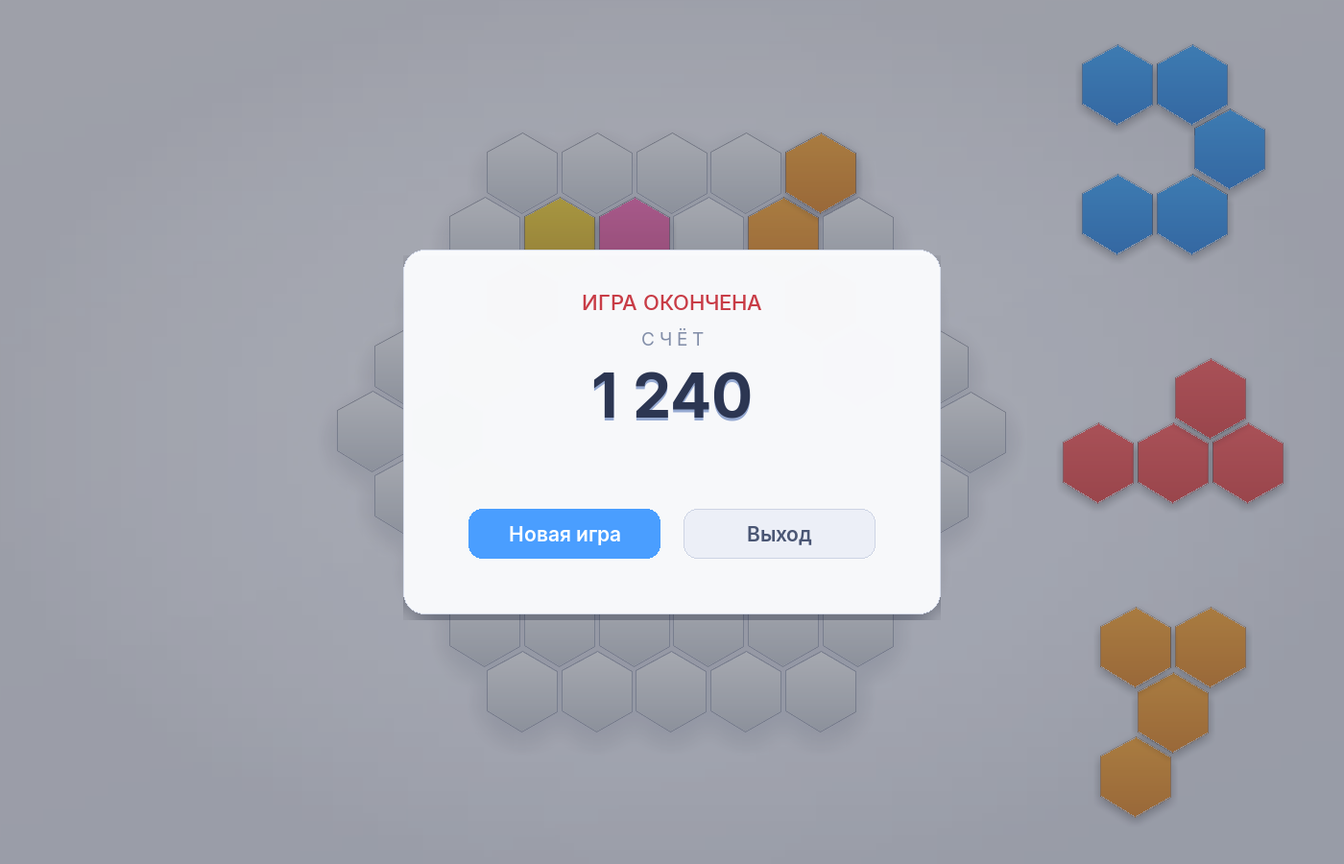
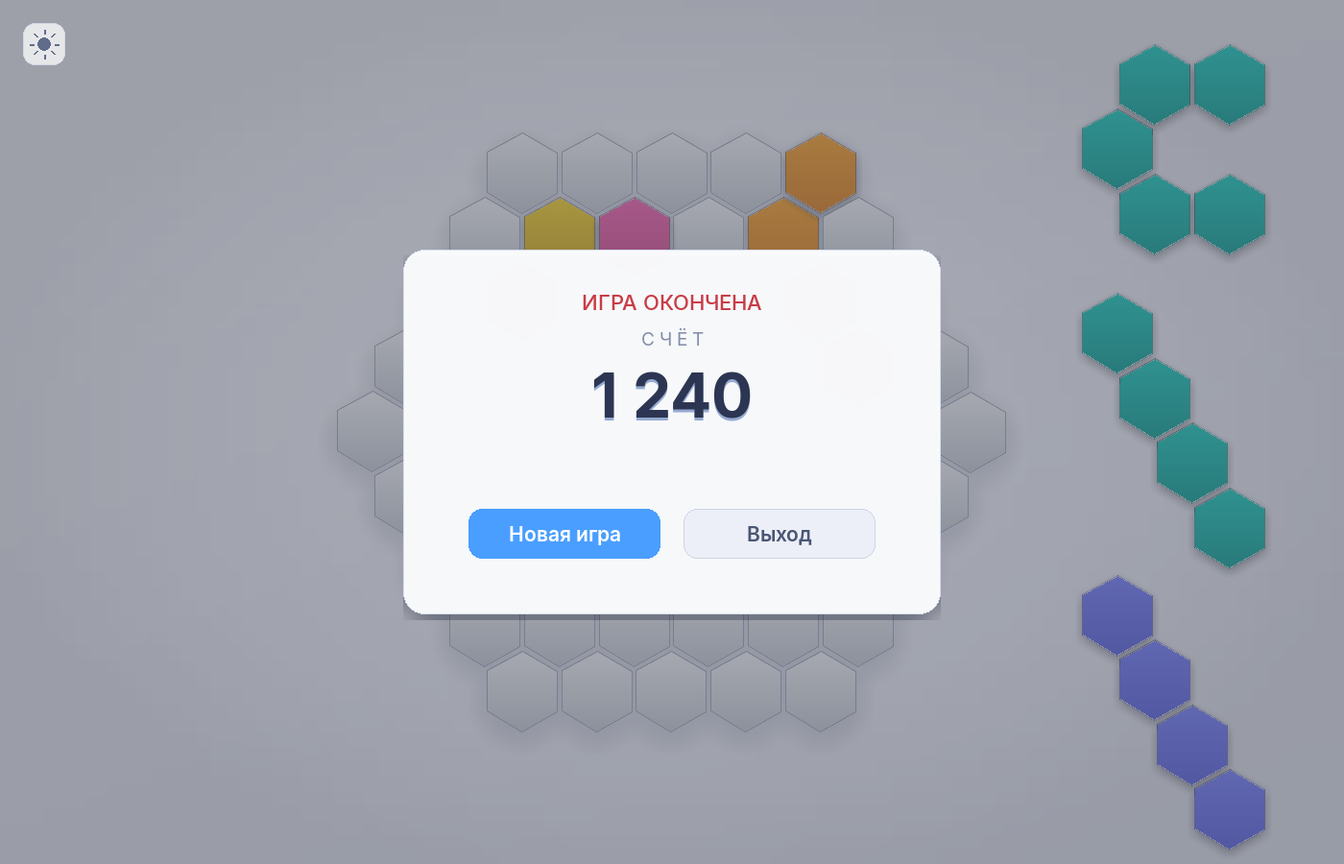
Кнопка переключения темы и пересборка README от исходной версии
Тему можно было сменить только клавишами T и F1, и в интерфейсе об этом
ничего не говорило — пользователь не мог догадаться.

Кнопка темы:
- новый слой ThemeButton: квадрат 44x44 в левом верхнем углу (24, 24);
- иконка рисуется примитивами: солнце в светлой теме, луна в тёмной;
- подсветка при наведении, цвета в обеих темах;
- клик по кнопке перехватывается раньше остальной обработки мыши, поэтому
  не может начать перетаскивание фигуры;
- работает и в игре, и на экране проигрыша (лежит выше затемнения);
- клавиши T и F1 сохранены как альтернатива.

README пересобран от исходной версии (коммит до правок): текст автора
сохранён, списки файлов и классов актуализированы, добавлены раздел
"Доработки с помощью ИИ" с описанием графики, тем, производительности,
исправленных ошибок и перехода на pygame-ce.

Скриншоты: три прежних перегенерированы с кнопкой, добавлен screen4.png
с тёмной темой и before-screen*.jpg из истории для сравнения "до/после".

Проверки: 117 кадров анимаций (включая наведение кнопки) сверены с полной
перерисовкой — следов нет; 146 фигур в 12 партиях с фиксированным seed;
клики по кнопке меняют тему в обе стороны и не мешают перетаскиванию;
все ссылки на картинки и упомянутые файлы/классы существуют.

diff --git a/classes.py b/classes.py
@@ -1213,3 +1213,67 @@ class Tab(Layer):
         caption = 'Новая игра' if action == 'new_game' else 'Выход'
         text = self._text(caption, self.button_font, text_color)
         self.surface.blit(text, text.get_rect(center=rect.center))
+
+
+class ThemeButton(Layer):
+    """Кнопка переключения светлой и тёмной темы в левом верхнем углу.
+
+    Раньше тему можно было сменить только клавишами T и F1, и в интерфейсе
+    об этом ничего не говорило. Кнопка делает возможность видимой.
+    """
+
+    SIZE = 44
+    MARGIN = 24
+
+    def __init__(self, sc):
+        Layer.__init__(self, sc)
+        self.rect = pg.Rect(self.MARGIN, self.MARGIN, self.SIZE, self.SIZE)
+        self.hovered = False
+        self.invalidate(self.bounds)
+
+    @property
+    def bounds(self):
+        # Запас под тень и подсветку, чтобы они не обрезались клипом слоя.
+        return self.rect.inflate(24, 24)
+
+    def hit(self, pos):
+        return self.rect.collidepoint(pos)
+
+    def set_hover(self, pos):
+        hovered = self.hit(pos)
+        if hovered != self.hovered:
+            self.hovered = hovered
+            self.invalidate(self.bounds)
+
+    def redraw(self, rect):
+        self.surface.fill((0, 0, 0, 0), rect)
+        if not rect.colliderect(self.bounds):
+            return
+
+        body = self.rect
+        fill = theme['theme_button_hover'] if self.hovered else theme['theme_button_fill']
+        pg.draw.rect(self.surface, fill, body, border_radius=12)
+        pg.draw.rect(self.surface, theme['theme_button_border'], body, width=1, border_radius=12)
+
+        color = theme['theme_button_icon']
+        cx, cy = body.center
+
+        if theme.name == 'light':
+            # Солнце: круг и восемь лучей.
+            pg.draw.circle(self.surface, color, (cx, cy), 7)
+            for index in range(8):
+                angle = pi / 4 * index
+                inner = 11
+                outer = 15
+                pg.draw.line(
+                    self.surface, color,
+                    (cx + inner * cos(angle), cy - inner * sin(angle)),
+                    (cx + outer * cos(angle), cy - outer * sin(angle)),
+                    2)
+        else:
+            # Луна: круг, из которого вырезан смещённый круг.
+            radius = 9
+            mask = pg.Surface((radius * 2 + 2, radius * 2 + 2), pg.SRCALPHA)
+            pg.draw.circle(mask, (*color, 255), (radius + 1, radius + 1), radius)
+            pg.draw.circle(mask, (0, 0, 0, 0), (radius + 6, radius - 2), radius)
+            self.surface.blit(mask, (cx - radius - 1, cy - radius - 1))

diff --git a/main.py b/main.py
@@ -5,7 +5,7 @@
 """
 from settings import pg, W, H, WINDOW_TITLE, FPS, GAME_MODE, FINAL_MODE
 from theme import theme
-from classes import Field, Pool, DragAndDrop, Background, Tab, Renderer, FxLayer
+from classes import Field, Pool, DragAndDrop, Background, Tab, Renderer, FxLayer, ThemeButton
 
 
 def init_new_game(sc):
@@ -26,9 +26,10 @@ def run():
     background = Background(sc)
     field, pool, drag_and_drop, tab = init_new_game(sc)
     fx = FxLayer(sc)
+    theme_button = ThemeButton(sc)
     # Порядок слоёв задаёт порядок наложения: поле, пул, фигура под курсором,
-    # эффекты и счёт.
-    renderer = Renderer(sc, background, [field, pool, drag_and_drop, fx, tab])
+    # эффекты, счёт и поверх всего кнопка темы.
+    renderer = Renderer(sc, background, [field, pool, drag_and_drop, fx, tab, theme_button])
 
     def switch_theme():
         """Перекрашивает всё под выбранную тему.
@@ -40,6 +41,7 @@ def run():
         background.rebuild()
         field._shadow = None
         tab._rendered = {}
+        theme_button.invalidate(theme_button.bounds)
         renderer.invalidate_all()
 
     mode = GAME_MODE
@@ -58,6 +60,16 @@ def run():
             if event.type == pg.KEYDOWN and event.key in (pg.K_t, pg.K_F1):
                 switch_theme()
                 continue
+
+            # Кнопка темы обрабатывается раньше всего остального и перехватывает
+            # клик: иначе он мог бы начать перетаскивание фигуры.
+            if event.type == pg.MOUSEMOTION:
+                theme_button.set_hover(event.pos)
+
+            if event.type == pg.MOUSEBUTTONDOWN and event.button == pg.BUTTON_LEFT:
+                if theme_button.hit(event.pos):
+                    switch_theme()
+                    continue
 
             if mode == GAME_MODE:
                 if event.type == pg.MOUSEBUTTONDOWN and event.button == pg.BUTTON_LEFT:

diff --git a/theme.py b/theme.py
@@ -59,6 +59,12 @@ LIGHT = {
     'button_secondary_hover': (224, 229, 240),
     'button_secondary_text': (74, 86, 116),
     'button_border': (205, 212, 228),
+
+    # Кнопка переключения темы
+    'theme_button_fill': (255, 255, 255, 190),
+    'theme_button_hover': (255, 255, 255, 245),
+    'theme_button_border': (208, 215, 230),
+    'theme_button_icon': (96, 108, 138),
 }
 
 DARK = {
@@ -110,6 +116,11 @@ DARK = {
     'button_secondary_hover': (78, 88, 114),
     'button_secondary_text': (226, 233, 246),
     'button_border': (88, 98, 124),
+
+    'theme_button_fill': (54, 61, 80, 190),
+    'theme_button_hover': (68, 76, 98, 245),
+    'theme_button_border': (86, 96, 122),
+    'theme_button_icon': (214, 223, 240),
 }
 
 THEMES = {'light': LIGHT, 'dark': DARK}

diff --git a/README.md b/README.md
@@ -4,17 +4,123 @@
 Hexagon - игра, на которую я случайно наткнулся в интернете и решил повторить на Python (с использованием библиотеки pygame-ce). Правила игры немного напоминают правила Тетрис.
 На игровом поле также нужно выстраивать полные линии, выкладывая фигурки, чтобы удалить их, с той лишь разницей, что поле в Hexagon состоит не из квадратиков, а из шестиугольных ячеек - гексов - и фигурки не падают сверху, а выбираются из случайным образом пополняемого "пула"
 
-## Установка и запуск
+Код игры разбит на несколько файлов:
+1) start.pyw (точка входа: проверяет окружение, показывает ошибки при запуске без терминала и запускает игру)
+2) main.py (основной игровой цикл)
+3) classes.py (в нем находятся классы, реализующие основную логику игры)
+4) utils.py (в нем находится несколько вспомогательных функций, например, для создания списка координат отдельных гексов и сглаживания их углов)
+5) settings.py (файл с настройками игры, такими например, как размер окна, размер гексов и т.д.)
+6) theme.py (цвета светлой и тёмной темы)
+7) sprites.py (кэш готовых спрайтов гексов: тени, градиенты, сглаженные контуры)
+8) fonts.py (загрузка шрифта интерфейса)
 
-Игра использует [pygame-ce](https://pyga.me/) - активно развиваемый форк pygame с тем же API.
+Кратко о назначении отдельных классов:
+- Layer - базовый слой отрисовки. Хранит свою поверхность и помнит, какая её часть изменилась с прошлого кадра, поэтому перерисовывается только она.
+- Renderer - собирает кадр из слоёв и обновляет на экране только изменившиеся области.
+- Background - генерирует фоновый рисунок (градиент, виньетку и шум) и отрисовывает его.
+- Hexagon, FieldHexagon, FigureHexagon - классы для представления гексов, входящих в фигуры, и гексов на игровом поле. Класс Hexagon является суперклассом для двух других,           инкапсулирующим общие свойства и поведение.
+- Figure - служит для представления фигур из гексов. Хранит список входящих в фигуру гексов, позволяя обращаться к ним, как к отдельному целому объекту. Содержит много методов для   делегирования поведения. Например, мы можем передвинуть фигуру на указанное смещение не передавая его напрямую каждому отдельному входящему в фигуру гексу, а передав требуемое     смещение фигуре, соответствующий метод которой уже передаст его входящим в фигуру гексам.
+- Pool - генерирует весь комплект фигур и случайным образом отбирает фигуры из созданного комплекта для отдельных ходов.
+- Field - представляет игровое поле. Также содержит методы для удаления полных линий и определения наличия доступных ходов (если доступных ходов не осталось - игра прекращается).
+- DragAndDrop - реализует возможность перетаскивания фигур из пула на игровое поле с помощью мышки.
+- FxLayer - слой эффектов: искры при удалении линий и всплывающие очки.
+- Tab - панель для отображения количества очков и итоговый экран с кнопками.
+- ThemeButton - кнопка переключения светлой и тёмной темы.
+
+![screenshot](screenshots/screen1.png)
+
+![screenshot](screenshots/screen2.png)
+
+![screenshot](screenshots/screen3.png)
+
+![screenshot](screenshots/screen4.png)
+
+## Доработки с помощью ИИ
+
+Исходная версия игры была написана и лежала в репозитории. Ниже — что было
+доработано позже: графика, темы, скорость, а также ошибки, которые удалось найти
+и исправить по ходу.
+
+### Как было и как стало
+
+| До | После |
+|---|---|
+| ![до](screenshots/before-screen1.jpg) | ![после](screenshots/screen1.png) |
+
+Слева — исходное оформление: плоские гексы с контуром, ровный шум на фоне,
+одна цифра счёта в верхнем углу. Справа — текущий вид.
+
+### Графика и анимации
+
+Гексы перестали быть плоскими полигонами. Каждый рисуется в отдельную картинку:
+мягкая тень, вертикальный градиент, сглаженный контур. Тень под всей доской
+создаёт ощущение, что поле лежит над фоном, а не нарисовано на нём.
+
+Фон — диагональный градиент с виньеткой (края чуть темнее центра) и мелким
+шумом. Панель счёта получила заголовок и крупное число, для интерфейса взят
+шрифт Inter.
+
+Добавлены эффекты: фигуры плавно появляются в пуле, при удалении линий
+разлетаются искры, над местом хода всплывают заработанные очки.
+
+### Две темы
+
+Светлая и тёмная темы переключаются кнопкой в левом верхнем углу или клавишами
+**T** и **F1**. Фигура хранит не RGB, а индекс цвета в палитре, поэтому смена
+темы не требует перекрашивать объекты игры: подставляются цвета из `theme.py`.
+
+Готовые спрайты и фон кэшируются отдельно для каждой темы, так что повторное
+переключение не пересчитывает картинки заново.
+
+### Производительность
+
+Раньше каждый кадр заново рисовал все гексы и блитил пять полноэкранных
+поверхностей. Теперь кадр собирается из слоёв, и каждый слой перерисовывается
+только в той области, которая изменилась с прошлого кадра.
+
+| | Значение |
+|---|---|
+| Полностью статичный кадр | 0.016 мс |
+| Кадр во время перетаскивания фигуры | 1.28 мс |
+| Бюджет одного кадра при 30 FPS | 33.3 мс (занято около 2,5 %) |
+
+Отдельно стоит отметить: спрайты с тенями и градиентами оказались не медленнее
+прежних полигонов. Блит готовой картинки дешевле, чем `polygon` с
+антиалиасингом, поэтому визуальные улучшения не отняли запас скорости.
+
+### Исправленные ошибки
+
+- Одна и та же ячейка поля могла посчитаться дважды, если два гекса фигуры
+  попадали в неё — начислялись лишние очки.
+- Фигура из 4 гексов могла закрасить 5 ячеек и начислить очки за 5: гекс на
+  границе попадал сразу в две ячейки, и этого никто не проверял.
+- Проверка попадания `collide()` считала точку «внутри» гекса, если она лежала
+  на продолжении его ребра — далеко за пределами фигуры. Из-за этого корректные
+  броски иногда отклонялись.
+- Тень игрового поля обрезалась по ровной горизонтальной линии у нижнего края.
+- Расстояния между ячейками выглядели неравномерными: спрайты разного размера
+  центрировались с разным округлением, и соседние гексы смещались на пиксель.
+- Подсказка «нажмите любую клавишу» на экране проигрыша выводилась поверх
+  гексов поля.
+
+### Запуск и зависимости
+
+Игра переведена на [pygame-ce](https://pyga.me/) — активно развиваемый форк
+`pygame` с тем же API. Старая версия в `requirements.txt` (`pygame==2.0.0`) на
+современном Python вообще не устанавливается: готового пакета для неё нет,
+а сборка из исходников падает. Кроме того, часть использованной графики
+(например, размытие `transform.box_blur`) есть только в `pygame-ce`.
+
+Установка:
 
 ```bash
 pip install -r requirements.txt
 python3 start.pyw
 ```
 
-Если раньше был установлен обычный `pygame`, его нужно удалить: оба пакета ставятся
-в один и тот же каталог `pygame/`, и вместе они работают непредсказуемо.
+Если раньше был установлен обычный `pygame`, его нужно удалить: оба пакета
+ставятся в один и тот же каталог `pygame/`, и вместе они работают
+непредсказуемо.
 
 ```bash
 pip uninstall -y pygame
@@ -30,70 +136,18 @@ chmod +x start.pyw
 
 При запуске двойным кликом сообщения об ошибках некуда выводить, поэтому
 `start.pyw` перед созданием окна проверяет окружение. Если установлен не тот
-pygame или его нет вовсе, вместо чёрного окна появится диалог с текстом
-проблемы и командой для исправления; тот же текст сохраняется в `error.log`
-рядом с игрой.
+`pygame` или его нет вовсе, вместо чёрного окна, которое сразу закрывается,
+появится диалог с причиной и командой для исправления; тот же текст сохраняется
+в `error.log` рядом с игрой.
 
-Код игры разбит на несколько файлов:
-1) start.pyw (точка входа: проверяет окружение, показывает ошибки и запускает игру)
-2) main.py (основной игровой цикл)
-3) classes.py (в нем находятся классы, реализующие основную логику игры)
-4) utils.py (в нем находится несколько вспомогательных функций, например, для создания списка координат отдельных гексов и сглаживания их углов)
-5) settings.py (файл с настройками игры, такими например, как размер окна, размер гексов, цвет пустых гексов и т.д.)
-6) theme.py (цвета светлой и тёмной темы)
-7) sprites.py (кэш готовых спрайтов: тени, градиенты, сглаженные контуры)
-8) fonts.py (загрузка шрифта Inter)
-
-Кратко о назначении отдельных классов:
-- Layer - базовый слой отрисовки. Каждый слой хранит собственную поверхность и знает, какая её часть изменилась с прошлого кадра, поэтому перерисовывается только она.
-- Renderer - собирает кадр из слоёв: накладывает фон и слои только в изменившихся областях и обновляет экран.
-- Background - генерирует фоновый рисунок (градиент, виньетку и шум) и отрисовывает его.
-- Hexagon, FieldHexagon, FigureHexagon - классы для представления гексов, входящих в фигуры, и гексов на игровом поле. Класс Hexagon является суперклассом для двух других,           инкапсулирующим общие свойства и поведение.
-- Figure - служит для представления фигур из гексов. Хранит список входящих в фигуру гексов, позволяя обращаться к ним, как к отдельному целому объекту. Содержит много методов для   делегирования поведения. Например, мы можем передвинуть фигуру на указанное смещение не передавая его напрямую каждому отдельному входящему в фигуру гексу, а передав требуемое     смещение фигуре, соответствующий метод которой уже передаст его входящим в фигуру гексам.
-- Pool - генерирует весь комплект фигур и случайным образом отбирает фигуры из созданного комплекта для отдельных ходов.
-- Field - представляет игровое поле. Также содержит методы для удаления полных линий и определения наличия доступных ходов (если доступных ходов не осталось - игра прекращается).
-- DragAndDrop - реализует возможность перетаскивания фигур из пула на игровое поле с помощью мышки.
-- FxLayer - слой эффектов: искры при удалении линий и всплывающие очки.
-- Tab - панель для отображения количества очков.
-
-## Как устроена отрисовка
-
-Каждый слой (поле, пул, фигура под курсором, эффекты, счёт) рисует себя в
-собственную поверхность размером с окно и помнит прямоугольник, который изменился
-с прошлого кадра. При сборке кадра фон и слои накладываются только внутри этих
-прямоугольников, а в `display.update()` передаётся тот же список.
-
-Гексы не рисуются полигонами каждый кадр: `sprites.py` заранее собирает их в
-картинки (мягкая тень через `box_blur`, вертикальный градиент, светлая кромка,
-сглаженный контур) и кэширует по теме, цвету, состоянию и шагу масштаба. Блит
-готового спрайта дешевле, чем `polygon` с антиалиасингом, поэтому эффекты не
-замедляют, а ускоряют кадр.
-
-Практический результат: полностью статичный кадр не стоит почти ничего, а во
-время перетаскивания фигуры перерисовывается лишь область вокруг неё, а не весь
-экран. Новый слой достаточно унаследовать от `Layer` и реализовать `redraw()` и
-`update()`.
-
-## Управление
+### Управление
 
 - **Мышь** — перетащить фигуру из пула на игровое поле.
-- **T** или **F1** — переключить светлую и тёмную тему.
-- Когда ходов не остаётся, появляется окно с итоговым счётом и кнопками
-  **«Новая игра»** и **«Выход»**.
+- **Кнопка в левом верхнем углу**, клавиши **T** или **F1** — переключить тему.
+- На экране проигрыша — кнопки **«Новая игра»** и **«Выход»**.
 
-## Темы
-
-Цвета обеих тем лежат в `theme.py`, а фигура хранит не RGB, а индекс в
-палитре, поэтому смена темы не требует перекрашивать объекты игры.
-
-## Шрифт
+### Шрифт
 
 В `assets/fonts` лежит [Inter](https://rsms.me/inter/) под лицензией
 SIL Open Font License 1.1 (текст лицензии рядом, в `assets/fonts/LICENSE.txt`).
 Если файлы шрифта недоступны, игра возьмёт системный шрифт.
-
-![screenshot](screenshots/screen1.png)
-
-![screenshot](screenshots/screen2.png)
-
-![screenshot](screenshots/screen3.png)
